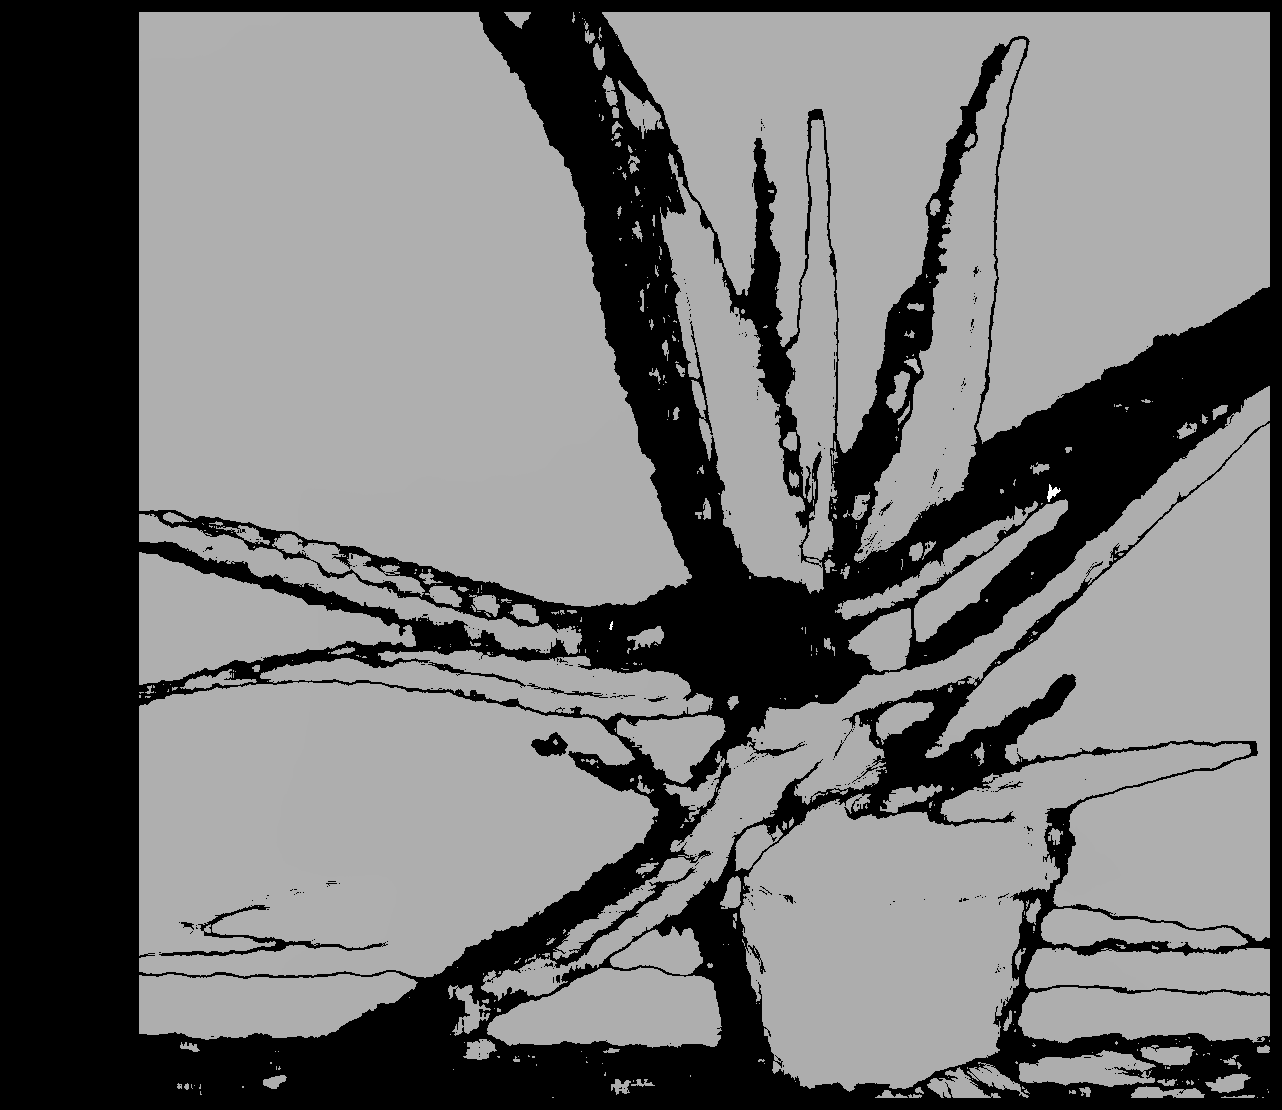
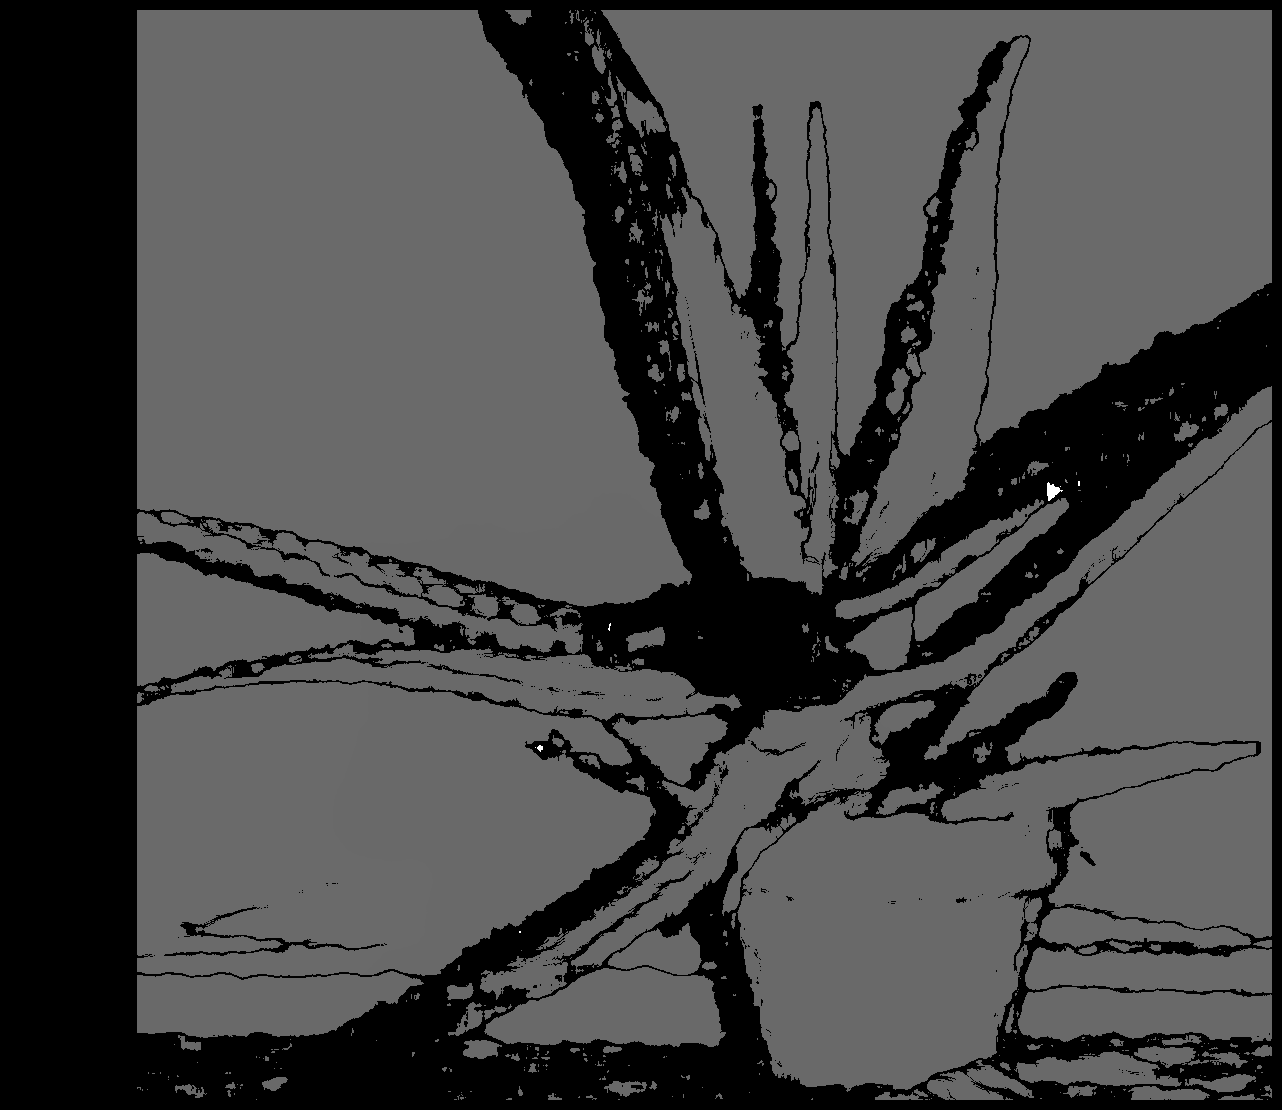
Feito requisito 2

diff --git a/src/pd3.py b/src/pd3.py
@@ -8,7 +8,6 @@ import argparse
 import time
 import pdb
 
-DEFAULT_WINDOW = 25
 FOCAL_DISTANCE = 3740 #px
 BASELINE = 160 #mm
 THRESHOLD = 50
@@ -50,8 +49,6 @@ parser.add_argument("--img_l", nargs="?", default=None, metavar="path/to/file",
                     help="Caminho para a imagem da esquerda")
 parser.add_argument("--img_r", nargs="?", default=None, metavar="path/to/file",
                     help="Caminho para a imagem da direita")
-parser.add_argument("--windowSize", nargs="?", default=DEFAULT_WINDOW, type=check_positive_odd,
-                    help="Tamanho da janela utilizazada para o calculo stereoMatching")
 
 
 def openImage(file):
@@ -65,12 +62,12 @@ def openImage(file):
     return img
 
 
-def findPixelMatch(leftImage, rightImage, windowSize):
+def findPixelMatch(leftImage, rightImage, windowSize, numDisparities=128):
     #para o pixel x y imgL achar o correspondente na imgR 
     #    Se não hover correspondencia retorna none
     #    Se houver retorna a coordenada da correspondencia
     #function
-    stereo = cv2.StereoBM_create(numDisparities=128, blockSize=windowSize)
+    stereo = cv2.StereoBM_create(numDisparities, blockSize=windowSize)
     lGray = cv2.cvtColor(leftImage, cv2.COLOR_BGR2GRAY)
     rGray = cv2.cvtColor(rightImage, cv2.COLOR_BGR2GRAY)
     return stereo.compute(lGray,rGray)
@@ -94,9 +91,7 @@ def saveImage(name, image):
     print("Salvando {}...".format(name))
     cv2.imwrite(name, image)
 
-def createDepthMap(imageL, imageR, windowSize):
-    if windowSize == DEFAULT_WINDOW:
-        print("Usando janela de comparação de tamanho {}. Use a opção --windowSize para outro tamanho".format(DEFAULT_WINDOW))
+def createDepthMap(imageL, imageR):
     if imageL is None or imageR is None:
         imageL = "../data/aloeL.png"
         print("Criando mapa de profundidade para aloe. Caso deseje a do bebe, use a opção -imageL and -imageR com as imagens correspondentes.")
@@ -105,18 +100,13 @@ def createDepthMap(imageL, imageR, windowSize):
     else:
         leftImage = openImage(imageL)
         rightImage = openImage(imageR)
-    corMatrix = findPixelMatch(leftImage, rightImage, windowSize)
-    x, y, z = getWorldCoords(leftImage, corMatrix)
-    z[z == np.inf] = -np.inf
-    z[z == -np.inf] = np.max(z)
-    dispMatrix = normalize(np.abs(corMatrix))
-    depthMatrix = normalize(z)
+    dispMatrix, depthMatrix, _, _ = tuneParameters(leftImage, rightImage)
     saveImage(imageL.rstrip("L.png") + "_disp.png", dispMatrix)
     saveImage(imageL.rstrip("L.png") + "_depth.png", depthMatrix)
 
 
 def getRotation(r1, r2):
-    return np.matmul(r1.T, r2)
+    return np.dot(r1.T, r2)
 
 
 def getTranslation(r1, t1, t2):
@@ -128,22 +118,87 @@ def depthFromHomography():
     rightImage = openImage("../data/MorpheusR.jpg")
     rotation = getRotation(MORPHEUS_LEFT_ROTATION, MORPHEUS_RIGHT_ROTATION)
     translation = getTranslation(MORPHEUS_LEFT_ROTATION, MORPHEUS_LEFT_TRANSLATION.T, MORPHEUS_RIGHT_TRANSLATION.T)
-    r1, r2, p1, p2, q = cv2.stereoRectify(MORPHEUS_LEFT_CAMERA, MORPHEUS_RIGHT_CAMERA, None, None, leftImage.shape[0:2], rotation, translation)
+
+    r1, r2, p1, p2, _, _, _ = cv2.stereoRectify(MORPHEUS_LEFT_CAMERA, None, MORPHEUS_RIGHT_CAMERA, None,
+                                                leftImage.shape[0:2], rotation, translation)
+
+    map1x, map1y = cv2.initUndistortRectifyMap(MORPHEUS_LEFT_CAMERA, None, r1, p1, leftImage.shape[0:2], cv2.CV_32FC1)
+    map2x, map2y = cv2.initUndistortRectifyMap(MORPHEUS_RIGHT_CAMERA, None, r2, p2, leftImage.shape[0:2], cv2.CV_32FC1)
+    leftReprojection = cv2.remap(leftImage, map1x, map1y, cv2.INTER_LINEAR)
+    rightReprojection = cv2.remap(leftImage, map2x, map2y, cv2.INTER_LINEAR)
+
+    dispMatrix, depthMatrix, _, _ = tuneParameters(leftReprojection, rightReprojection)
+    saveImage("../data/morpheus_disp.jpg", dispMatrix)
+    saveImage("../data/morpheus_depth.jpg", depthMatrix)
+
+
+
+def measureBox(bonus):
+    if bonus:
+        pass
+    else:
+        leftImage = openImage("../data/MorpheusL.jpg")
+        rightImage = openImage("../data/MorpheusR.jpg")
+        rotation = getRotation(MORPHEUS_LEFT_ROTATION, MORPHEUS_RIGHT_ROTATION)
+        translation = getTranslation(MORPHEUS_LEFT_ROTATION, MORPHEUS_LEFT_TRANSLATION.T, MORPHEUS_RIGHT_TRANSLATION.T)
+
+        r1, r2, p1, p2, _, _, _ = cv2.stereoRectify(MORPHEUS_LEFT_CAMERA, None, MORPHEUS_RIGHT_CAMERA, None,
+                                                    leftImage.shape[0:2], rotation, translation)
+
+        map1x, map1y = cv2.initUndistortRectifyMap(MORPHEUS_LEFT_CAMERA, None, r1, p1, leftImage.shape[0:2], cv2.CV_32FC1)
+        map2x, map2y = cv2.initUndistortRectifyMap(MORPHEUS_RIGHT_CAMERA, None, r2, p2, leftImage.shape[0:2], cv2.CV_32FC1)
+        leftReprojection = cv2.remap(leftImage, map1x, map1y, cv2.INTER_LINEAR)
+        rightReprojection = cv2.remap(leftImage, map2x, map2y, cv2.INTER_LINEAR)
+
+        dispMatrix, depthMatrix, corMatrix, z = tuneParameters(leftReprojection, rightReprojection)
+
+
+def tuneParameters(leftImage, rightImage):
+    print(Otimizar parâmetros....)
+    def nothing(x):
+        pass
+
+    cv2.namedWindow('disp', cv2.WINDOW_NORMAL)
+
+    cv2.createTrackbar('numOfDisparities', 'disp', 1, 20, nothing)
+    cv2.createTrackbar('windowSize', 'disp', 5, 255, nothing)
+
+    while(True):
+        numOfDisparities = cv2.getTrackbarPos('numOfDisparities', 'disp') * 16
+        windowSize = cv2.getTrackbarPos('windowSize', 'disp')
+        if numOfDisparities < 16:
+            numOfDisparities = 16
+        if windowSize % 2 == 0:
+            windowSize += 1
+        if windowSize < 5:
+            windowSize = 5
+        corMatrix = findPixelMatch(leftImage, rightImage, windowSize, numOfDisparities)
+        x, y, z = getWorldCoords(leftImage, corMatrix)
+        z[z == np.inf] = -np.inf
+        z[z == -np.inf] = np.max(z)
+        dispMatrix = normalize(np.abs(corMatrix))
+        depthMatrix = normalize(z)
+        cv2.imshow("disp", dispMatrix)
+        k = cv2.waitKey(1) & 0xFF
+        if k == 27:
+            break
+    cv2.destroyAllWindows()
+    return dispMatrix, depthMatrix, corMatrix, z
+
 
 def main(r1, r2, r3, imageL=None,
-         imageR=None, windowSize=DEFAULT_WINDOW, bonus=None):
+         imageR=None, bonus=None):
     if r1:
-        return createDepthMap(imageL, imageR, windowSize)
+        return createDepthMap(imageL, imageR)
     elif r2:
         if bonus:
             pass
         else:
             return depthFromHomography()
     elif r3:
-        print("r3")
+        measureBox(bonus)
 
 
 if __name__ == "__main__":
     args = parser.parse_args()
-    main(args.r1, args.r2, args.r3, args.img_l, args.img_r,
-         args.windowSize, args.bonus)
+    main(args.r1, args.r2, args.r3, args.img_l, args.img_r, args.bonus)
